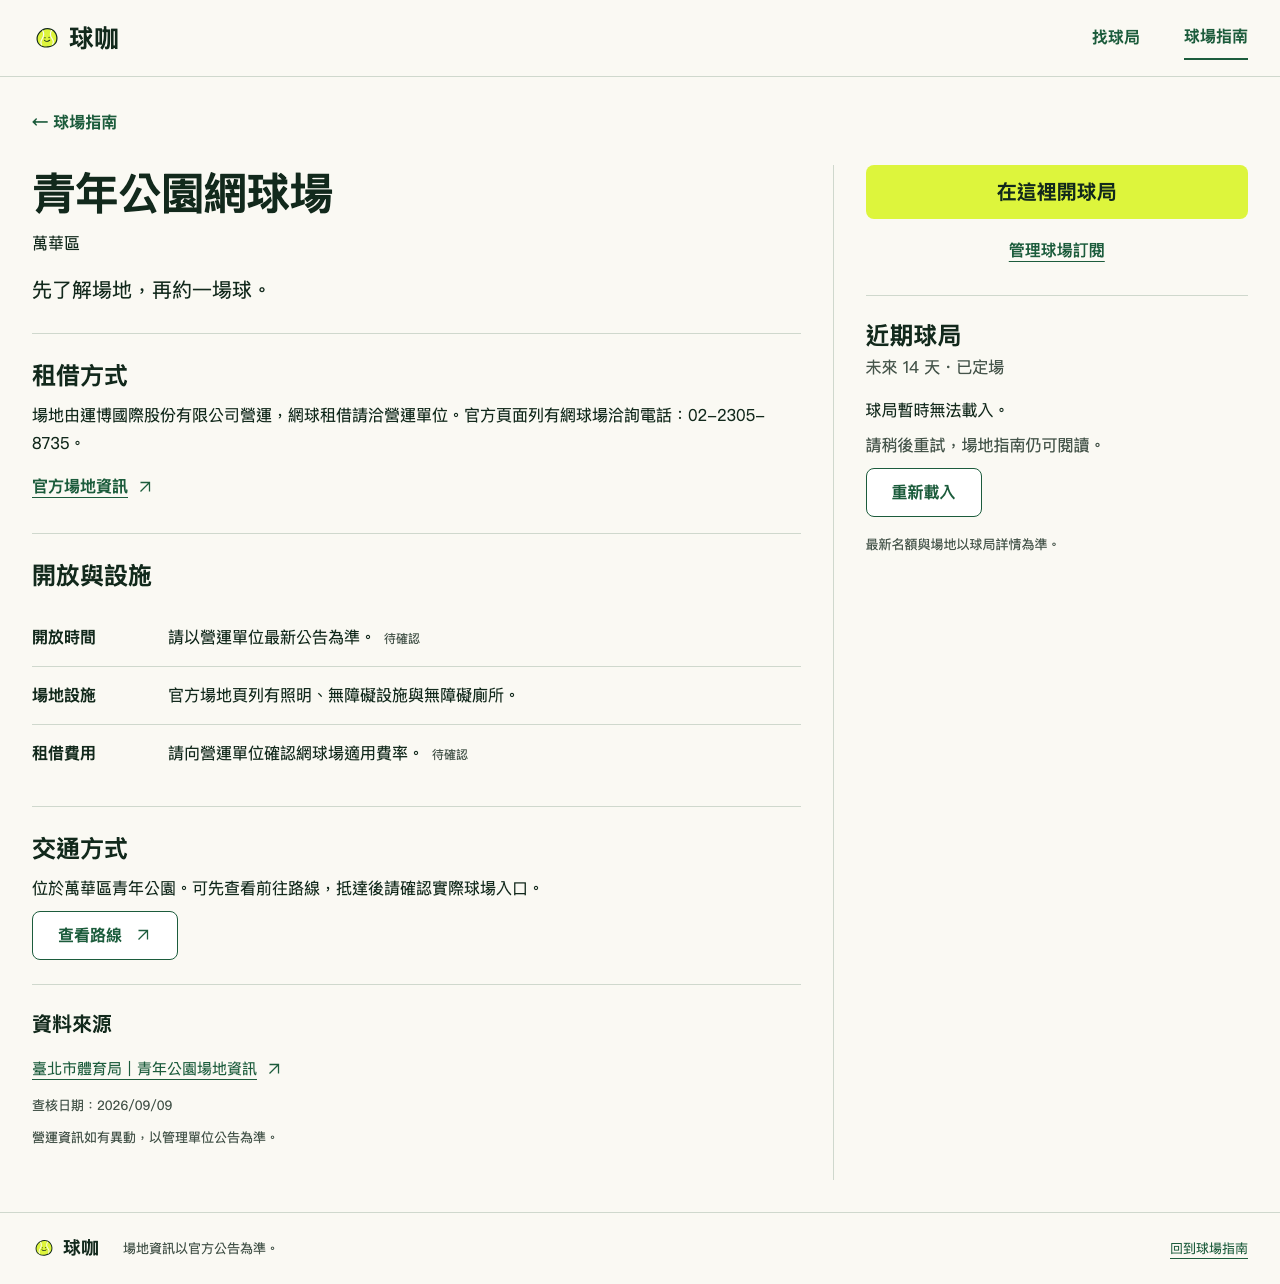
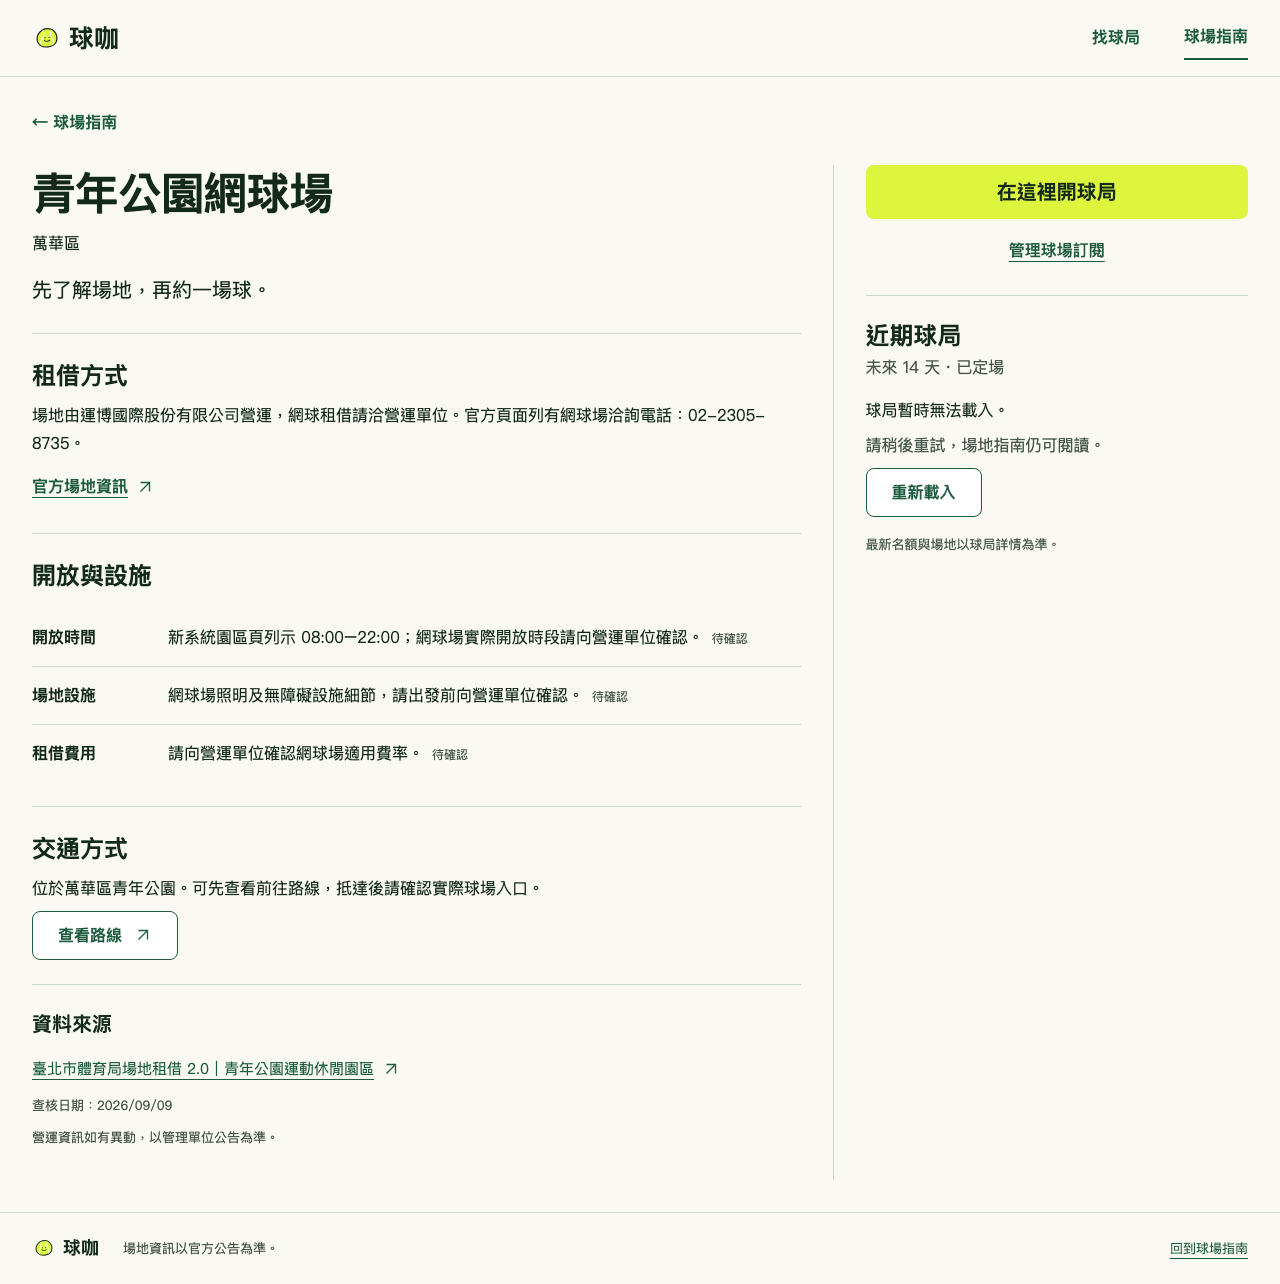
fix: update court guides to official booking system 2.0

diff --git a/docs/growth/g09-booking-system-correction-2026-09-09.md b/docs/growth/g09-booking-system-correction-2026-09-09.md
@@ -1,0 +1,19 @@
+# G09 租借系統切換更正
+
+2026-09-09 使用者指出新入口 `https://vbs.sports.gov.taipei/`。先前查核只讀到舊場地頁，漏掉租借系統切換公告；本紀錄更正現行指南，不覆寫最初研究／QA 歷史。
+
+## 官方證據與內容決策
+
+- [體育局常見問答](https://sports.gov.taipei/News_Content.aspx?n=30346D17ED329AC1&s=71EB00B5EC6381C8)（官方更新 2026-07-17）明確指示：2026 年 7 月起檔期使用場地租借 2.0。
+- 在新系統「找場地」頁實際讀取可見連結，再開啟各場館頁；不是將舊網域或舊 K 編號直接代換。
+- [彩虹河濱公園](https://vbs.sports.gov.taipei/venues/19)：可見「網球場」及「場租租借」入口，列有 17 面；場館開放時間列為 08:00–22:00。指南改指向此頁，請使用者在網球場區塊查詢。移除舊版固定可租／免費輪流面數與第 13–16 面夜間不開放的斷言；新頁未提供足夠依據確認相同規則。夜間照明與費率保留待確認。日期篩選下的「未開放租借」不等於免費現場使用，亦不等於永久停用。
+- [青年公園運動休閒園區](https://vbs.sports.gov.taipei/venues/1098)：新頁明列網球委外運博國際及洽詢電話 02-2305-8735。網球指南指向此頁，避免誤連到主要列籃球／練習壁的 `/venues/7`。園區頁雖列 08:00–22:00，仍需確認網球個別時段；新頁沒有足夠的設施細節，照明／無障礙資訊改為待確認。
+- 新系統 [運動中心頁](https://vbs.sports.gov.taipei/venues/794) 有臺北市網球中心名稱，但沒有可確認的新預約入口；保留既有營運官網的室內／室外指南來源及租借說明，不推論所有委外場館已改由 2.0 直接受理。
+
+## 驗證與發布
+
+變更限 `data/court-guides.json` 靜態內容及查核文件，沒有修改 `src/` runtime、DB、租借／訂閱行為或 JavaScript 上限。沒有登入官方租借系統，也沒有送出任何租借申請。
+
+既有指南單元測試 4 項通過，build 與嚴格 bundle gate 通過（本機一般設定 total 940,864 raw／281,937 gzip，0 exceeded）。Browser plugin skill 未提供，渲染 QA 沿用 frontend-testing-debugging 的 repo Playwright 路徑；官方來源以 CUA Chrome 的可見頁面查核。桌面／390px 指南渲染、錯誤重試與無 Maps 檢查結果及正式發布狀態見 progress.md。本批未改 runtime／migration，未重跑完整 local／SQL 流程，不挪用前一批結果作為新測試。
+
+後續來源查核需同時看官方系統公告、當前實際入口和場館個別規定，不能只憑舊頁仍可開啟就標示為現行租借入口。

diff --git a/docs/growth/progress.md b/docs/growth/progress.md
@@ -38,6 +38,12 @@
 - 本分支臨時 Preview 公開 Supabase 設定與 Production env export 已清理；進度文件持續保存於 main。
 - 真實 LINE／Facebook 對話卡片未代發驗證；沒有真實留存／轉換數據。其他暫緩 G 項不因本次上線自動啟動。
 
+## 2026-09-09 租借系統入口更正
+
+- 使用者指出場地租借 2.0；已核對體育局官方 2026 年 7 月起檔期切換說明。先前漏查切換公告，已修正現行指南內容。
+- 彩虹改至 `/venues/19`，青年網球委外場地改至 `/venues/1098`；台北網球中心保留營運官網。舊版無法在新系統確認的固定場次／夜間及設施細節改為待確認。
+- 詳細來源、範圍與維護規則見 [租借系統更正](g09-booking-system-correction-2026-09-09.md)。4 項 unit、build／嚴格容量 gate 已通過；桌面／390px 渲染、錯誤重試、零 Maps／console error 2 項通過；Git 發布中。
+
 ## 下一步
 
 1. 依使用者實際回饋修正 G09／G10；若要取得轉換／留存數據，先重新確認是否啟動已暫緩的 G01，不把工程測試當產品成效。
